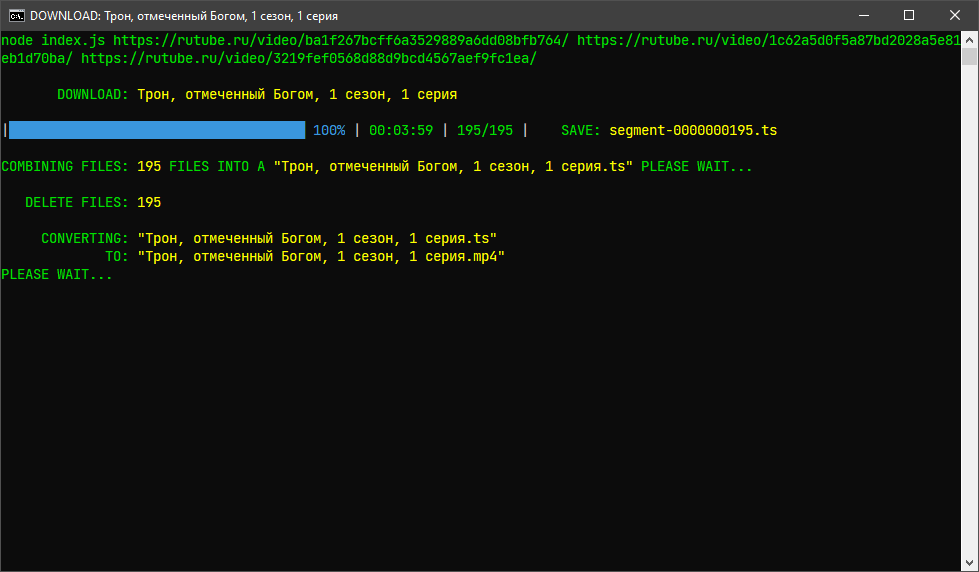
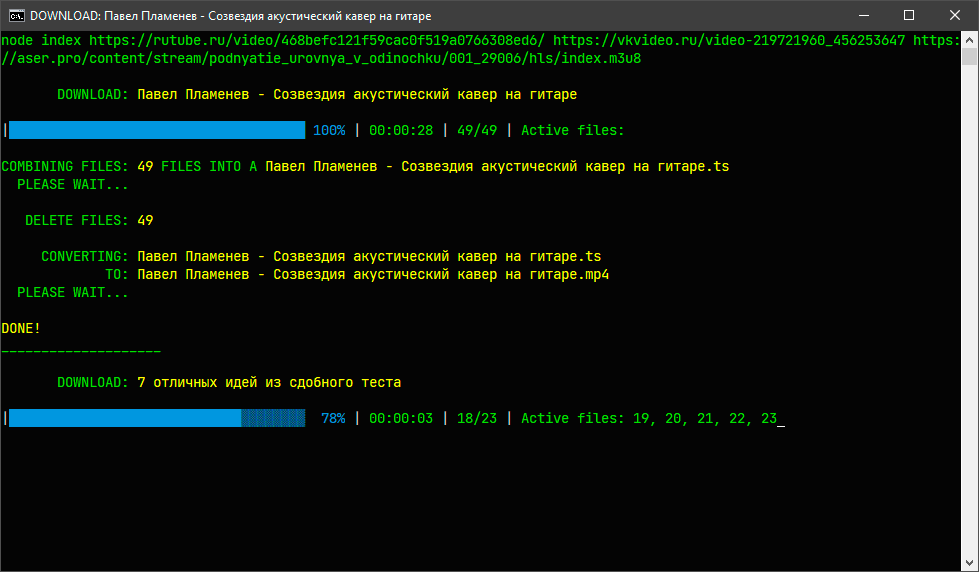
update

diff --git a/index.js b/index.js
@@ -43,7 +43,7 @@ async function run() {
 run()
 	.then(state => {
 		rl.close();
-		//console.clear();
+		console.clear();
 		console.log(`Загружено файлов:`, _colors.yellowBright(`${state.currentFileIndex}`));
 		for (let file of state.files) console.log(_colors.cyan("+ ".padStart(17, " ")), _colors.yellowBright(file.name));
 	})
